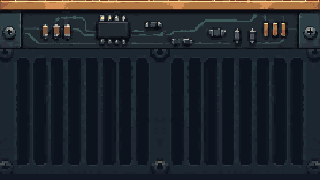
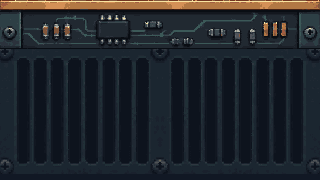
art(level): 파워서플라이 환경의 픽셀 크기 통일
워든과 같은 1:1 기준으로 원경·팬·구조물·소품을 기존 원화에서 가공한다. 먼지 크기별 텍스처를 배치하고 팬 중심과 회전 속도, 지형 충돌과 도착 데이터를 보존한다.

기본 화면 SDL 팬 회전 100프레임과 전체 레벨 이동·착지·순간이동·도착·재시작·F6를 확인했다. 번들과 경로 4개, Tiled 재렌더 픽셀 대조를 통과했다. 전체 회귀와 사용자 직접 플레이는 수행하지 않았다.

diff --git a/docs/progress.md b/docs/progress.md
@@ -4,6 +4,8 @@
 
 ## 현재 단계
 
+- **파워서플라이 환경 픽셀 크기 통일:** 2026-11-24 사용자 피드백으로 원경·팬·발판·소품을 배치 크기에 맞춰 다시 가공했다. 먼지 크기 변형을 텍스처로 만들어 기본 화면에서 환경과 워든의 픽셀 배율을 1:1로 맞췄다. [실제 게임 화면](../art/levels/power-supply/pixel-scale/fan-in-game.gif) · [게임 설계](game-design.md#첫-레벨-전원-구역).
+
 - **파워서플라이 먼지·흡기 팬:** 2026-11-24 요청과 사용자 피드백으로 바닥·발판에 낮은 보풀과 먼지 띠를 배치했다. 원경 부품에도 먼지층을 더했다. 팬 금속과 먼지는 원경 팔레트의 12색을 사용하며, 회전하는 날개 뒤로 먼지 낀 고정 통풍망이 보인다. [실제 게임의 팬](../art/levels/power-supply/dust-revision/fan-cavity/fan-in-game.gif) · [레벨 검증](../specs/021-power-supply-level/verification.md#먼지와-흡기-팬-후속-검증).
 
 - **첫 레벨 전원 구역:** 2026-11-24 사용자 요청으로 컴퓨터 파워서플라이 내부를 기본 실행에 연결하고 환경 원화에 hi-bit 가공을 적용했다. 흡기구, 방열판, 코일·콘덴서, 출력 단자를 배치했다. [명세](../specs/021-power-supply-level/spec.md) · [계획](../specs/021-power-supply-level/plan.md) · [검증](../specs/021-power-supply-level/verification.md).

diff --git a/docs/game-design.md b/docs/game-design.md
@@ -48,6 +48,8 @@
 
 오래 방치된 내부는 낮게 뭉친 회색 보풀, 발판 끝의 얇은 먼지 띠, 원경 배선과 부품 위에 두껍게 쌓인 먼지로 표현한다. 흡기 팬은 고정 하우징 안에서 5초에 한 바퀴 돈다.
 
+1280×720 기본 화면에서 워든과 환경은 원본 텍스처 1픽셀을 월드 1단위로 그린다. 원경과 팬은 각각 2160×1080과 570×570으로 원화에서 다시 가공했다. 먼지는 크기별 텍스처를 사용해 배율이 다른 픽셀이 한 화면에 섞이는 것을 피한다.
+
 ## 미정 설계
 
 전하 순간이동을 통한 빠른 전투 경험은 확정했다. 순간이동 상승 관성의 시험값·전체 전투 밸런스, 전체 진행·보상 반복 구조, 승패 규칙과 전체 제작 범위는 미정이다. 코드나 에셋 제작을 위해 임의의 값을 확정하지 않는다.
